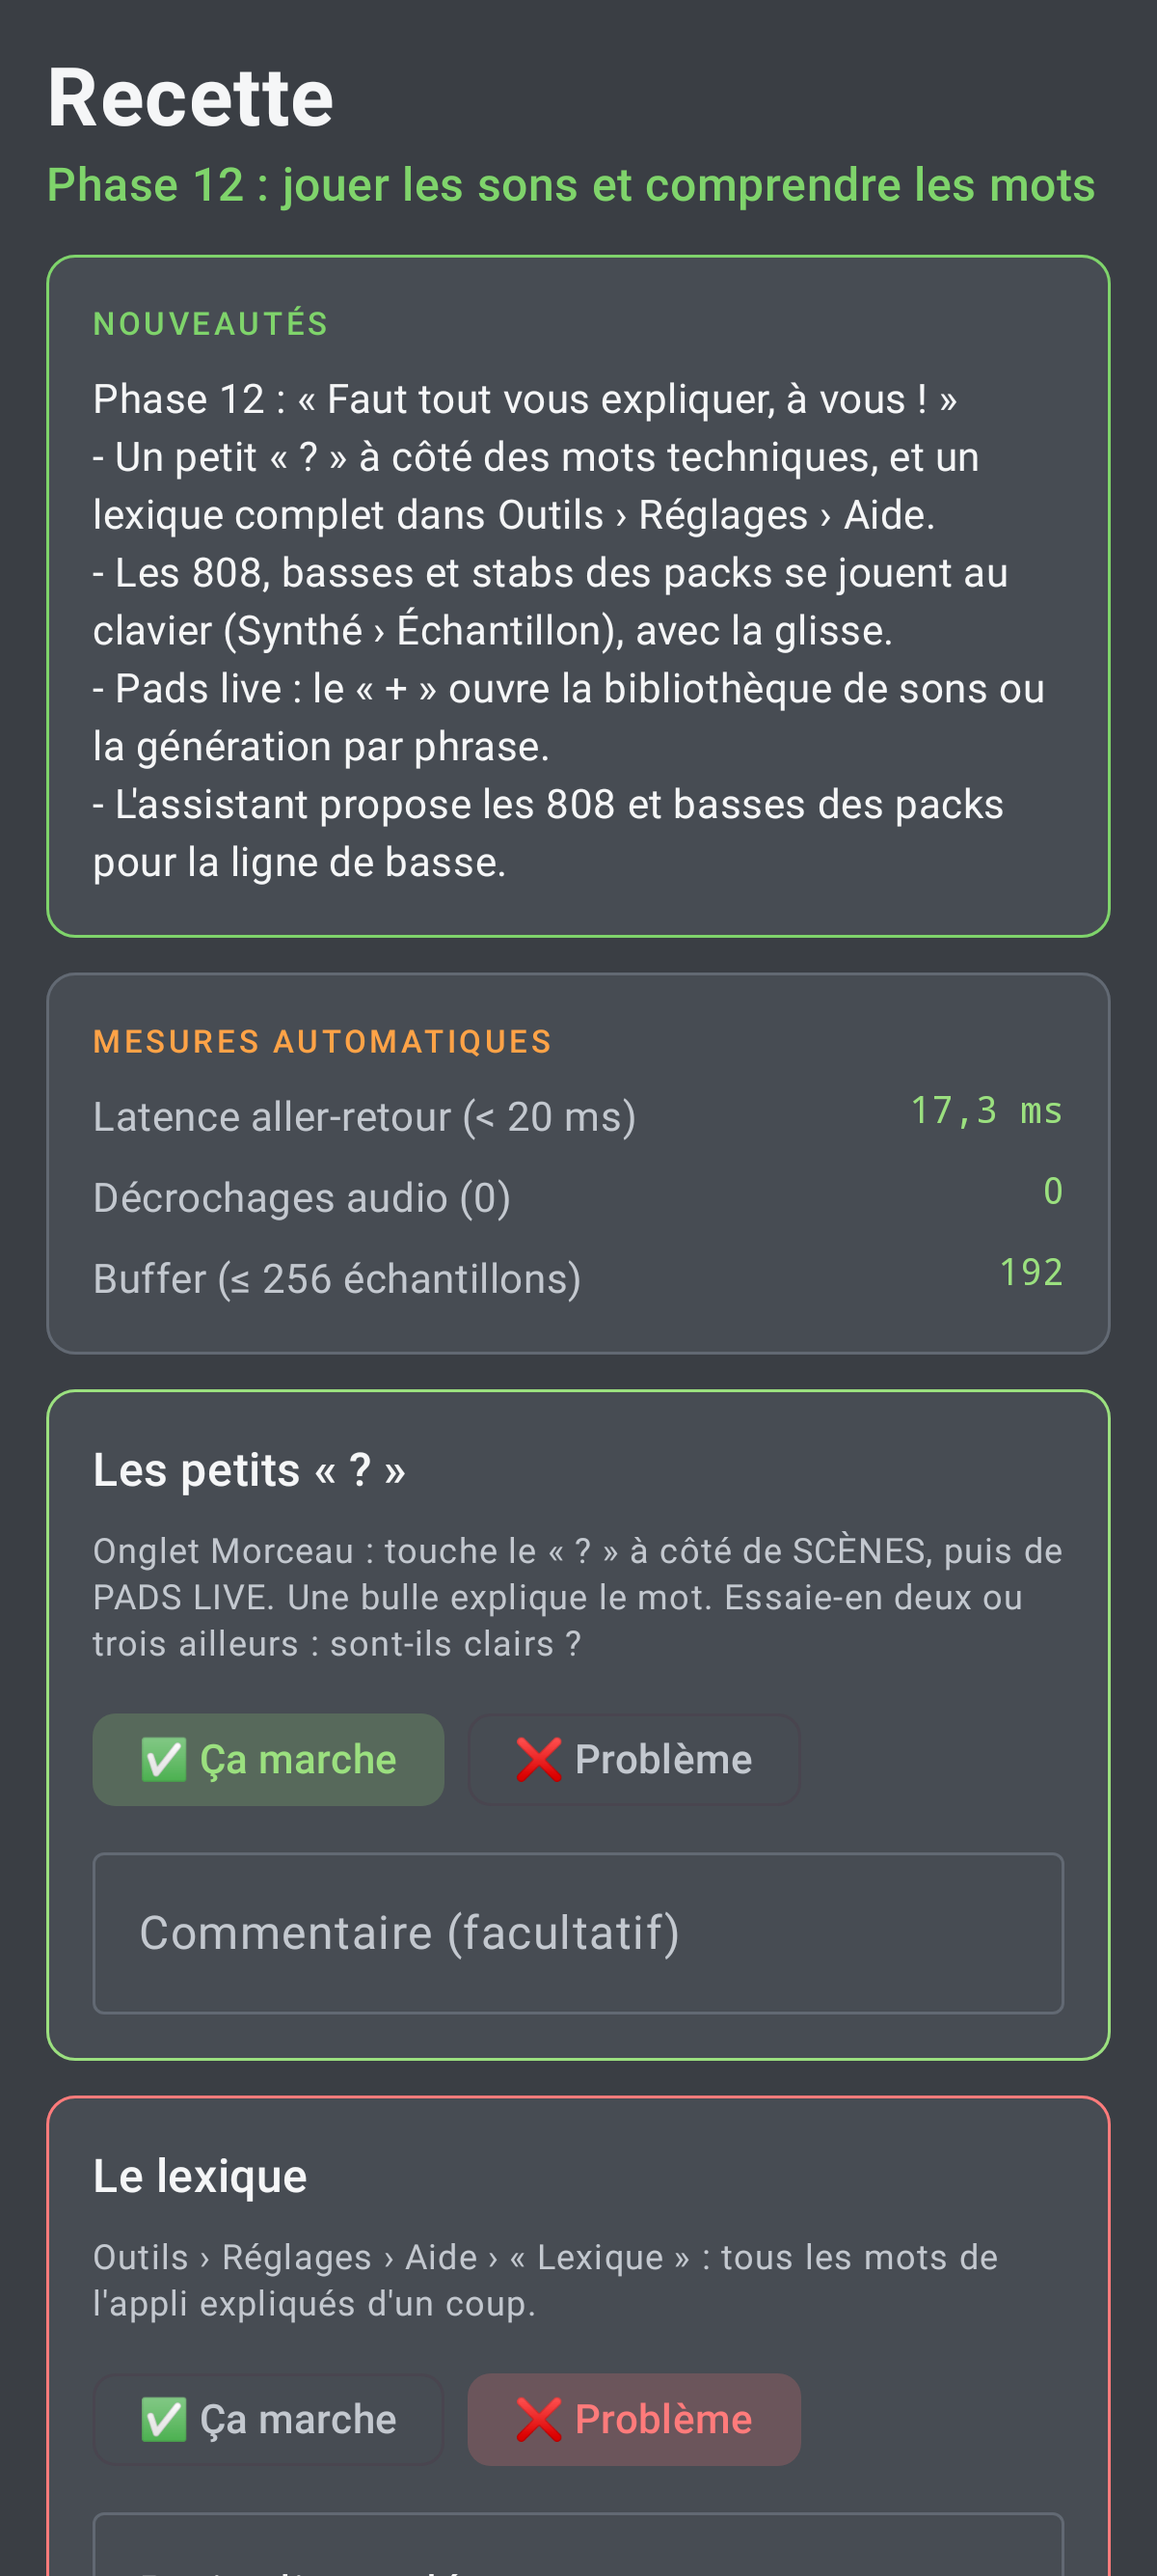
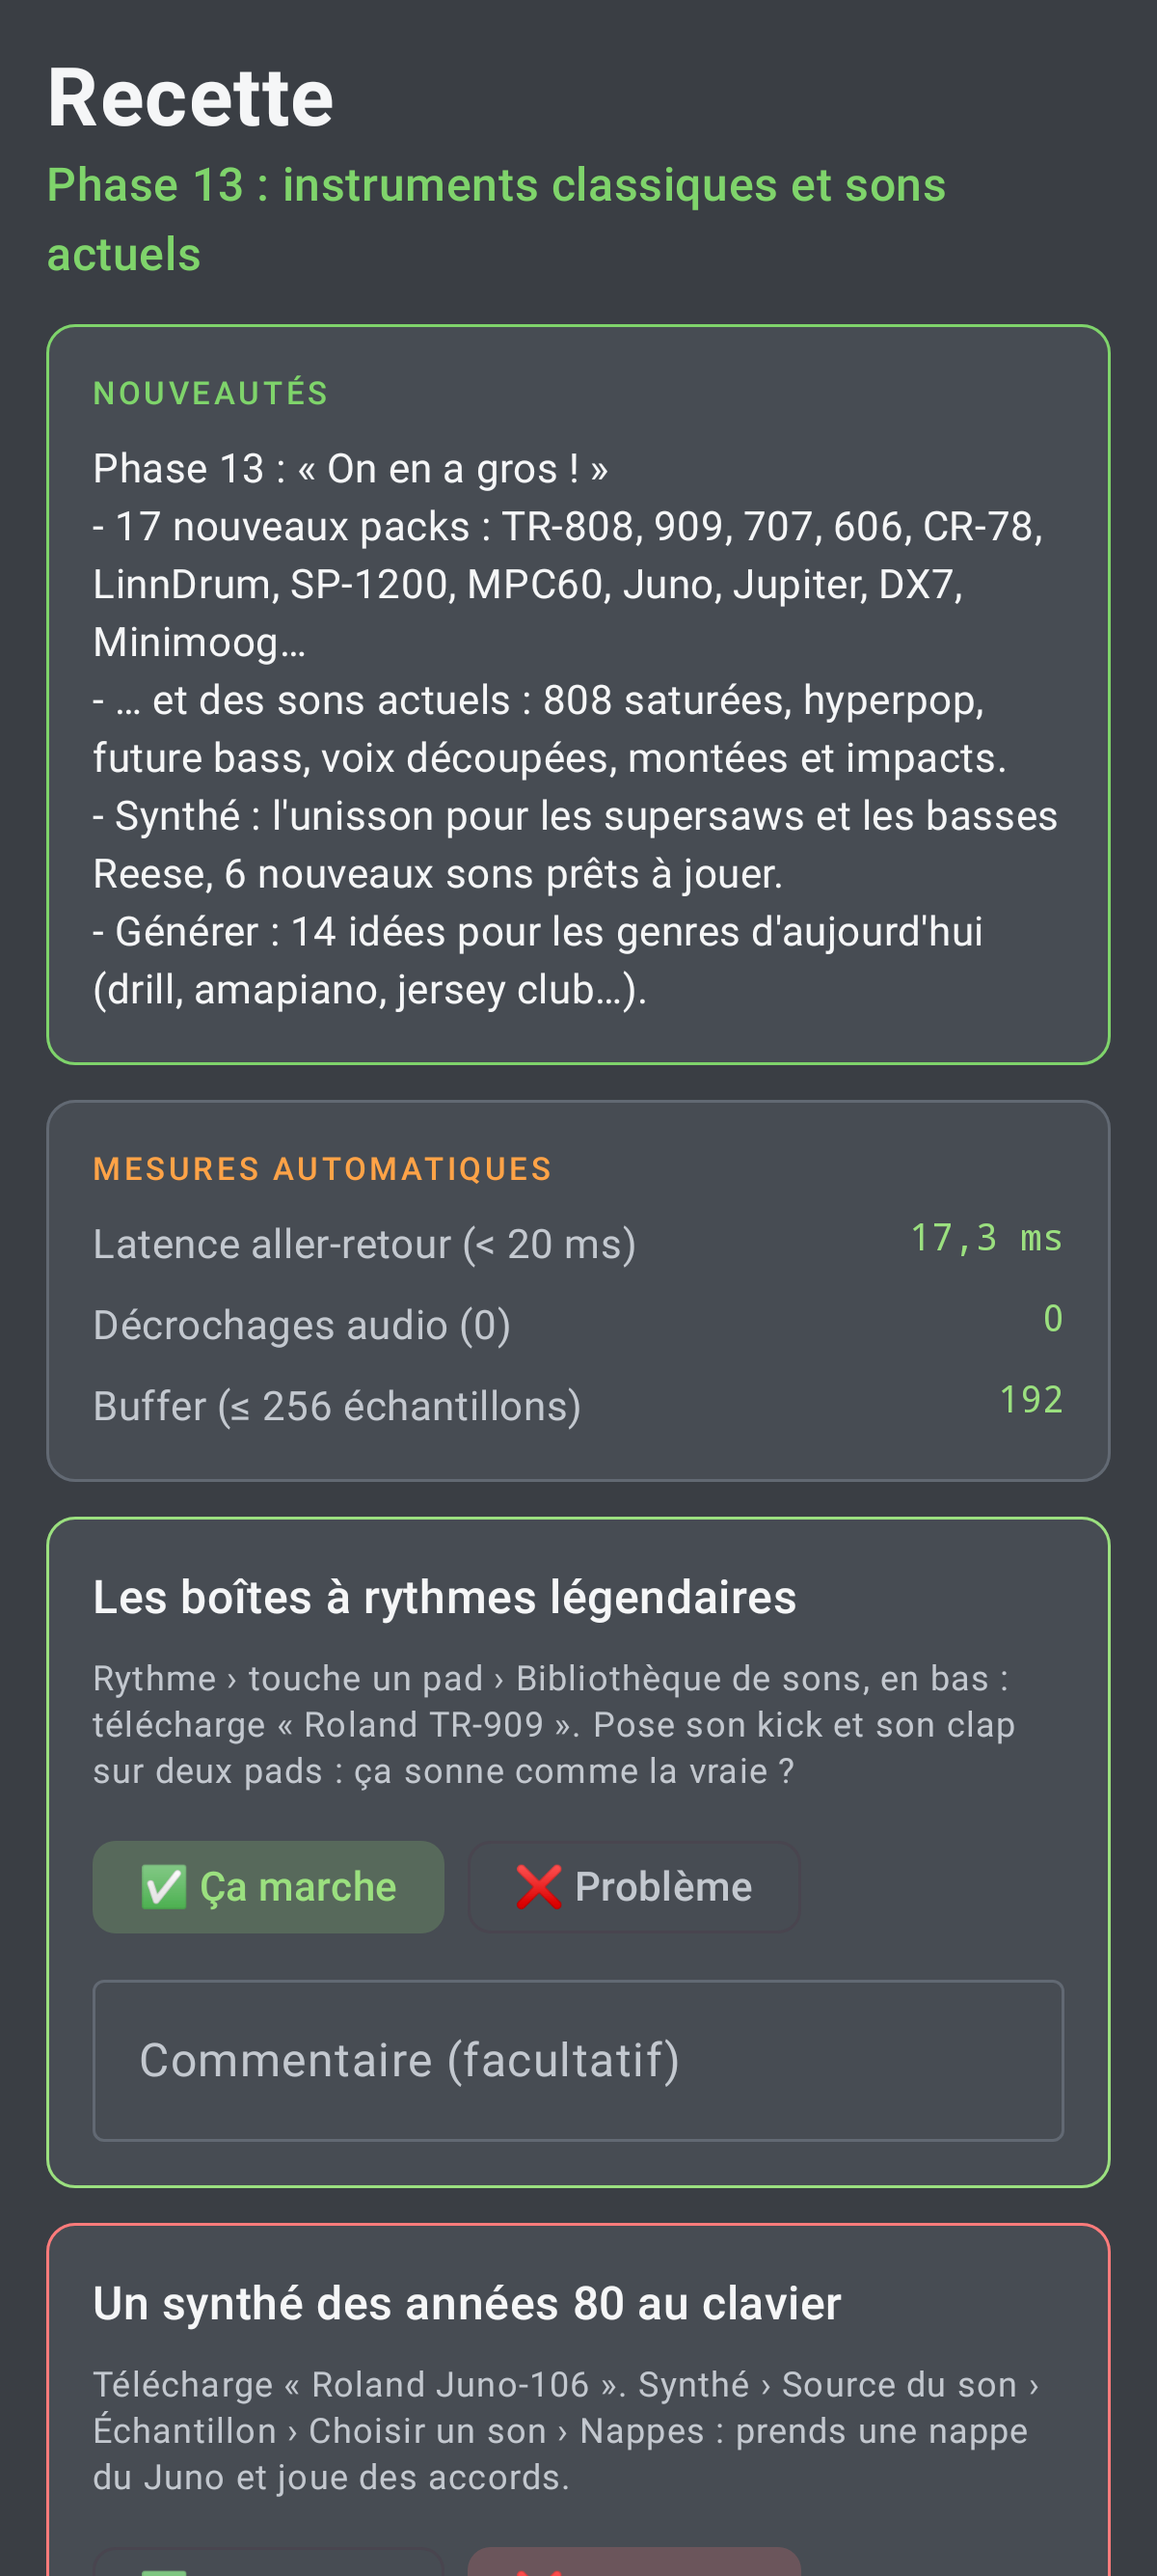
Phase 13: 51 packs pinned (sons-packs-3), docs, version 0.13
- PackStore reads sons-packs-3: the 34 styles plus 12 classic machines
  and 5 packs of current sounds; the model tests read the same index
  and the app test ties it to the pin.
- CI: the emulator smoke test stops after 25 minutes instead of holding
  the release (and every later run on main) for six hours.
- Changelog, acceptance list, roadmap, decisions, progress, comparison.

Claude-Session: https://claude.ai/code/session_01NqonxZBBysqqWBbnsC2VTP

diff --git a/app/src/main/java/com/pocketstudio/app/library/PackStore.kt b/app/src/main/java/com/pocketstudio/app/library/PackStore.kt
@@ -18,12 +18,12 @@ import java.util.zip.ZipInputStream
  * Blocking calls: background threads only.
  */
 object PackStore {
-    const val RELEASE = "sons-packs-2"
+    const val RELEASE = "sons-packs-3"
     private const val BASE = "https://github.com/benjaminpaquot123-netizen/pocket-studio/releases/download/$RELEASE/"
 
-    /** The list of packs the Packs workflow published (34 styles); null would mean none published yet. */
+    /** The list of packs the Packs workflow published (51: styles, machines, current sounds); null would mean none published yet. */
     val INDEX: VerifiedFile? = VerifiedFile(
[2 lines of base64/hex data omitted]
     )
 
     fun dir(context: Context) = File(context.filesDir, "packs")

diff --git a/project-model/src/test/kotlin/com/pocketstudio/model/SoundPacksTest.kt b/project-model/src/test/kotlin/com/pocketstudio/model/SoundPacksTest.kt
@@ -9,11 +9,14 @@ class SoundPacksTest {
 
     @Test
     fun thePublishedIndexIsReadInFull() {
-        // A copy of index.json from the sons-packs-2 Release, the one PackStore pins.
+        // A copy of index.json from the sons-packs-3 Release, the one PackStore pins.
         val index = SoundPacks.parseIndex(resource("packs-index.json"))
-        assertEquals(34, index.packs.size)
+        assertEquals(51, index.packs.size)
         assertTrue(index.packs.all { it.isSafe && it.sounds > 0 })
-        assertTrue(listOf("retro_techno", "uk_garage", "detroit", "dnb", "dubstep").all { id -> index.packs.any { it.id == id } })
+        assertTrue(
+            listOf("retro_techno", "uk_garage", "detroit", "dnb", "dubstep", "tr808", "tr909", "juno", "dx7", "modern_808", "hyperpop", "fx")
+                .all { id -> index.packs.any { it.id == id } },
+        )
     }
 
     @Test

diff --git a/app/src/main/java/com/pocketstudio/app/help/Glossary.kt b/app/src/main/java/com/pocketstudio/app/help/Glossary.kt
@@ -109,7 +109,7 @@ object Glossary {
     )
     val SOUND_PACK = Help(
         "Pack de sons",
-        "Une collection de sons pour un style (techno, UK garage, trap…). À télécharger seulement si tu veux, et à supprimer quand tu veux.",
+        "Une collection de sons pour un style (techno, UK garage, trap…), une machine célèbre (TR-808, Juno, DX7…) ou des sons actuels. À télécharger seulement si tu veux, et à supprimer quand tu veux.",
     )
     val KIT = Help(
         "Kit",

diff --git a/docs/ROADMAP.md b/docs/ROADMAP.md
@@ -105,7 +105,7 @@ Feu vert de Benjamin (D4 = A) : fusion de la pull request en fin de phase.
 - [x] 12.4 Assistant : 808 et basses des packs installés proposées pour la basse, stabs pour le lead
 
 ## Phase 13 : instruments classiques et sons actuels (demande de Benjamin)
-- [ ] 13.1 Packs « machines » : les boîtes à rythmes et synthés qui ont fait l'histoire, au-delà de la 808 (909, 707, 606, CR-78, LinnDrum, SP-1200, MPC, Juno, Jupiter, DX7, Minimoog…), un pack par machine, jouables sur les pads et au clavier
-- [ ] 13.2 Packs « sons actuels » : 808 modernes (saturées, longues, à glisser), Reese, hoover, supersaw, plucks, wavetable, voix découpées, montées et impacts (FX), log drum, cloche phonk…
-- [ ] 13.3 Synthé : unisson (jusqu'à 7 voix désaccordées et écartées) pour les supersaws de la future bass et de la trance et les Reese de la drum & bass ; préréglages « actuels »
-- [ ] 13.4 Générer : phrases d'exemple pour les genres récents (hyperpop, future bass, afro house, amapiano, jersey club, drill, phonk, UK garage…)
+- [x] 13.1 Packs « machines » : les boîtes à rythmes et synthés qui ont fait l'histoire, au-delà de la 808 (909, 707, 606, CR-78, LinnDrum, SP-1200, MPC, Juno, Jupiter, DX7, Minimoog…), un pack par machine, jouables sur les pads et au clavier
+- [x] 13.2 Packs « sons actuels » : 808 modernes (saturées, longues, à glisser), Reese, hoover, supersaw, plucks, wavetable, voix découpées, montées et impacts (FX), log drum, cloche phonk…
+- [x] 13.3 Synthé : unisson (jusqu'à 7 voix désaccordées et écartées) pour les supersaws de la future bass et de la trance et les Reese de la drum & bass ; préréglages « actuels »
+- [x] 13.4 Générer : phrases d'exemple pour les genres récents (hyperpop, future bass, afro house, amapiano, jersey club, drill, phonk, UK garage…)

diff --git a/docs/DECISIONS.md b/docs/DECISIONS.md
@@ -131,3 +131,5 @@
 - 2026-10-20 · Son échantillonné : source 2 des pistes d'instruments dans le moteur (SampleInstrument, 8 voix, Hermite, une voix qui glisse quand la glisse est réglée), plutôt qu'un multi-échantillon (un seul son suffit pour les packs, réglé sur sa note détectée par YIN de 25 Hz à 2 kHz). Retour arrière : la source 2 retombe sur le synthé.
 - 2026-10-20 · Aide : un « ? » pâle (55 % d'opacité, couleur du texte secondaire) à côté du terme, une bulle à fermer ; textes rassemblés dans `help/Glossary.kt` et listés dans Outils › Aide › Lexique. Pour les rangées de puces, un seul « ? » qui explique tout le groupe (place sur petit écran).
 - 2026-10-20 · Pads live : la bibliothèque d'abord (demande de Benjamin), le téléphone en dernier. Export : « La scène » au lieu de « La boucle » (le mot boucle désigne les sons des pads live).
+- 2026-10-20 · Machines et sons actuels : générés par Stable Audio Open comme les styles (pas d'échantillons des vraies machines, rarement redistribuables). Le workflow réutilise les packs déjà publiés (sons-packs-2) et ne fabrique que les nouveaux ; index épinglé sur sons-packs-3 (51 packs). Nouvelles familles : toms, nappes, leads, plucks, claviers, voix, effets.
+- 2026-10-20 · Unisson : jusqu'à six copies de l'oscillateur 1 dans le synthé soustractif existant (écart jusqu'à ±50 cents, phases réparties, volume constant), plutôt qu'un nouveau synthé wavetable (Vital, Surge : lourds à embarquer). À 0, le son est identique à l'échantillon près.

diff --git a/docs/COMPARAISON.md b/docs/COMPARAISON.md
@@ -31,7 +31,7 @@ Légende : ✅ présent · 🟡 partiel · ❌ absent · ➖ volontairement non 
 | Roulements, remplir, décaler, grille de tous les pads | ✅ | ✅ | 6.4 |
 | Pan et hauteur par pas, pan par pad | ✅ | ✅ (hauteur : sons importés) | 10.1 |
 | Envoi d'effet par pad | ✅ | 🟡 par la voie batterie | — |
-| Bibliothèque de sons par style | ✅ | ✅ sons intégrés + 34 packs à télécharger (supprimables) | 10.5, 11 |
+| Bibliothèque de sons par style | ✅ | ✅ sons intégrés + 51 packs à télécharger, supprimables (styles, machines TR-808 à DX7, sons actuels) | 10.5, 11, 13 |
 
 ## 4. Piano roll, clavier, harmonie
 
@@ -48,8 +48,8 @@ Légende : ✅ présent · 🟡 partiel · ❌ absent · ➖ volontairement non 
 
 | Fonction | FL Mobile | Pocket Studio | Où |
 | --- | --- | --- | --- |
-| Synthé soustractif, basse acide, synthé à modèles, banques General MIDI | ✅ | ✅ (Plaits 24 modèles, Open303, 3 banques) | fait |
-| Sampler multi-échantillons | ✅ | 🟡 découpe vers les pads | — |
+| Synthé soustractif, basse acide, synthé à modèles, banques General MIDI | ✅ | ✅ (Plaits 24 modèles, Open303, 3 banques, unisson supersaw) | fait, 13 |
+| Sampler multi-échantillons | ✅ | 🟡 un son sur tout le clavier (808 avec glisse), découpe vers les pads | 12 |
 | Génération de sons par le texte | ❌ | ✅ Stable Audio Open Small, sur le téléphone | 9.1 |
 
 ## 6. Audio

diff --git a/docs/PROGRESS.md b/docs/PROGRESS.md
@@ -128,7 +128,12 @@
   - 17 nouveaux packs commandés (machines et sons actuels) sur `sons-packs-3`, utilisés en phase 13.
 - Phase 13 prête en local (branche phase13-wip, à poser après la fusion de la 12) : unisson du synthé et sons actuels, nouvelles familles de sons des packs, phrases de Générer pour les genres récents.
 
+- Phase 12 fusionnée (PR #23), revue faite (notes répétées coupées, glisse, plantage Bluetooth #22).
+- Phase 13 (branche ccr-80af1a1b-mn0wec) :
+  - 13.1 et 13.2 : 17 packs (machines TR-808 à Minimoog, sons actuels) sur `sons-packs-3`, index épinglé (51 packs) ; familles toms, nappes, leads, plucks, claviers, voix, effets ; l'assistant propose nappes, claviers, leads et plucks des packs ;
+  - 13.3 : unisson du synthé (1 à 7 voix) et 6 sons actuels (Supersaw, Lead trance, Hoover, Accords future bass, Pluck future, Reese moderne) ;
+  - 13.4 : 14 phrases de Générer pour les genres récents.
+
 ## Prochaine étape exacte
-1. Phase 12 : PR, relecture de fin de phase, CI verte, fusion.
-2. Phase 13 : poser phase13-wip sur main, épingler l'index de `sons-packs-3` (PackStore.RELEASE et INDEX), relecture, fusion.
-3. Ensuite : points mineurs restants de `docs/REVIEW.md`, Ableton Link (reporté).
+1. Phase 13 : PR, relecture de fin de phase, CI verte, fusion.
+2. Ensuite : points mineurs restants de `docs/REVIEW.md`, Ableton Link (reporté).
